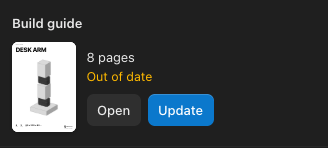
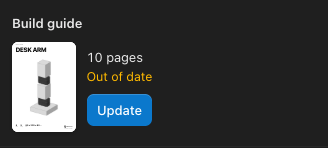
Refine: Leave one control for each job in the image viewer and the Build guide card (#787)
* Leave one control for each job in the image viewer and the Build guide card

The image viewer's zoom readout already zoomed to fit, so the Fit button
beside it did the same thing. It's gone, and the readout now has the
Zoom to fit tooltip with its 0 shortcut. On the Build tab, the guide's
cover already opened the guide, so the Open button beside it is gone too.
The card keeps Update for an out-of-date guide, and the toast and Open
Build Guide in Command-K still open it. The Build and Design system
guides, the Make a build guide article and the Build guide troubleshooting
article follow, with both card screenshots recaptured.

* Show Open Build Guide on the guide card's cover

The Build guide card dropped its Open button, so the cover is now the only control on the card that opens the guide. Give it a tooltip with the label its aria-label already carried, through one constant, and turn the tooltip off while a run is going and the cover can't open the guide. The image viewer's zoom readout got the same treatment for Zoom to fit.

Changed region(s): [[0.2439, 0.6216, 0.6707, 0.8649], [0.2439, 0.3514, 0.4573, 0.4324]]

diff --git a/src/components/build/GuideSection.tsx b/src/components/build/GuideSection.tsx
@@ -1,5 +1,14 @@
 import React from 'react';
-import { Button, FolderOpenIcon, IconButton, ProgressBar, Section, settleTilt, tiltToward } from '../../design-system';
+import {
+  Button,
+  FolderOpenIcon,
+  IconButton,
+  ProgressBar,
+  Section,
+  settleTilt,
+  tiltToward,
+  Tooltip,
+} from '../../design-system';
 import type { GuidePages } from '../../guide/viewer/guidePages';
 import type { BuildGuideRecord } from '../../types/robotics';
 import { platformBridge } from '../../utils/platformBridge';
@@ -26,6 +35,7 @@ function timeLeft(seconds: number | undefined): string {
 }
 
 const THUMB_W_PX = 64;
+const OPEN_GUIDE = 'Open Build Guide';
 
 interface CoverThumbProps {
   cover?: string;
@@ -35,11 +45,12 @@ interface CoverThumbProps {
 }
 
 const CoverThumb: React.FC<CoverThumbProps> = ({ cover, page, sceneName, onOpen }) => (
+  <Tooltip label={OPEN_GUIDE} disabled={!onOpen} className="shrink-0">
   <button
     type="button"
     onClick={onOpen}
     disabled={!onOpen}
-    aria-label="Open Build Guide"
+    aria-label={OPEN_GUIDE}
     data-guide-cover
     onPointerMove={tiltToward}
     onPointerLeave={(e) => settleTilt(e.currentTarget)}
@@ -59,6 +70,7 @@ const CoverThumb: React.FC<CoverThumbProps> = ({ cover, page, sceneName, onOpen 
     )}
     {page && <GuideCoverPage guide={page} widthPx={THUMB_W_PX} heroSrc={cover} />}
   </button>
+  </Tooltip>
 );
 
 const Progress: React.FC<{ progress: GuideRunProgress; onStop: () => void }> = ({ progress, onStop }) => (
@@ -85,16 +97,13 @@ const Made: React.FC<{ guide: BuildGuide; record: BuildGuideRecord }> = ({ guide
       <div className={`text-[12.5px] mt-0.5 ${guide.stale ? 'text-amber-400' : 'text-white/50'}`}>
         {guide.stale ? 'Out of date' : `Made ${agoPhrase(record.generatedAt)}`}
       </div>
-      <div className="flex gap-2 mt-2.5">
-        <Button size="sm" variant={guide.stale ? 'secondary' : 'primary'} onClick={() => void guide.open()}>
-          Open
-        </Button>
-        {guide.stale && (
+      {guide.stale && (
+        <div className="flex gap-2 mt-2.5">
           <Button size="sm" variant="primary" onClick={() => void guide.generate()}>
             Update
           </Button>
-        )}
-      </div>
+        </div>
+      )}
     </>
   );
 };

diff --git a/src/design-system/ImageViewerZoomBar.tsx b/src/design-system/ImageViewerZoomBar.tsx
@@ -1,7 +1,8 @@
 import React from 'react';
-import { CloseIcon, FitIcon, MinusIcon, PlusIcon } from './glyphs';
+import { CloseIcon, MinusIcon, PlusIcon } from './glyphs';
 import { IconButton } from './IconButton';
 import { IslandDivider } from './FloatingIsland';
+import { Tooltip } from './Tooltip';
 
 interface ImageViewerZoomBarProps {
   zoom: string;
@@ -28,14 +29,16 @@ export const ImageViewerZoomBar: React.FC<ImageViewerZoomBarProps> = ({
         tooltipSide="bottom"
         onClick={onZoomOut}
       />
-      <button
-        type="button"
-        onClick={onFit}
-        className="h-[32px] min-w-14 px-1.5 rounded-lg text-[13px] text-white/90 tabular hover:bg-white/[0.07] cursor-default"
-        aria-label="Zoom to fit"
-      >
-        {zoom}
-      </button>
+      <Tooltip label="Zoom to fit" shortcut="0" side="bottom">
+        <button
+          type="button"
+          onClick={onFit}
+          className="h-[32px] min-w-14 px-1.5 rounded-lg text-[13px] text-white/90 tabular hover:bg-white/[0.07] cursor-default"
+          aria-label="Zoom to fit"
+        >
+          {zoom}
+        </button>
+      </Tooltip>
       <IconButton
         icon={<PlusIcon className="w-4 h-4" />}
         title="Zoom in"
@@ -43,14 +46,6 @@ export const ImageViewerZoomBar: React.FC<ImageViewerZoomBarProps> = ({
         size="sm"
         tooltipSide="bottom"
         onClick={onZoomIn}
-      />
-      <IconButton
-        icon={<FitIcon className="w-4 h-4" />}
-        title="Zoom to fit"
-        shortcut="0"
-        size="sm"
-        tooltipSide="bottom"
-        onClick={onFit}
       />
       <IslandDivider />
       <IconButton

diff --git a/docs/guide/build.md b/docs/guide/build.md
@@ -75,8 +75,8 @@ The Build tab (right panel) and the agent's build tools turn a model into someth
     - **Supplies you add** (`project.extras`; there's no separate Supplies section): + in the header (`AddSupplyMenu`: Power, Wiring, Electronics, Tools) adds one, or one more of a supply already added, and opens its group. Filament isn't offered: it comes from the printed parts, in grams. Every line's quantity is a button (`QtyEditor`) that opens On hand, the count the person owns (saved app-wide, with a toast and Undo); on a line you added it opens Quantity, On hand and Delete (which asks first), and filament lines added by older scenes get On hand and Delete. The agent's note on an extra shows beside the spec.
     - The header's spreadsheet menu shows only when there are lines: CSV Spreadsheet, Markdown, then Buy All and the other stores' links.
     - **Buy All** (`cart.ts`, `bomCart`) fills one Amazon cart from the list: `/gp/aws/cart/add.html` with numbered `ASIN.n` / `Quantity.n` pairs, in line order, for every line with units left to buy and an ASIN (a checked listing's, else a catalog or sourced product link on amazon.com). Quantity is packs of the units left to buy, rounded up: the checked listing's pack size, else one piece (a 1,000 g spool for filament), so 6 servos sold in pairs are 3 and 13 screws sold by the hundred are 1. A line with no ASIN goes to its store instead: a checked or sourced listing elsewhere, else the list price's store page, grouped under the store's host name below Buy All, one item per line, since stores take no shared cart link. Only https links count, an ASIN must pass `parseAsin`, and the cart is always built on amazon.com, so a forged ASIN or a lookalike host never reaches it (§0h). Lines left with no link keep their row link (an Amazon search). Supplies join the cart only when they have a product link (the ones the agent sources); a catalog supply's search stays a search. Buy All is in ⌘K too (listed while the cart has an ASIN). It opens through `openLink` (`utils/openLink.ts`), the app's one external-link path: the system browser on desktop, a new tab in the web demo. No account and no affiliate tag.
-  - **Build guide** (`GuideSection`, `src/guide/`), after the bill of materials: a step-by-step assembly PDF, made with Make Guide (off until the scene has built parts). Making one runs in a worker (`guide.worker.ts`; `generateGuide` packs the parts, the worker measures contacts, plans, draws and writes the HTML, the main thread saves the PDF), so the app stays responsive and you can keep working; a toast with Open says when it's done. While it runs, the card keeps its cover (the new cover replaces it as soon as it's drawn), shows the step being drawn, the time left once it can be estimated, and Stop. A made guide offers Open; an out-of-date one says so in amber and adds Update. ⌘K has the same three as Make Build Guide, Open Build Guide and Update Build Guide (§11). There's no Regenerate: a guide reads Out of date whenever a redraw could come back different. That's when its fingerprint changes (`guideFingerprint`: the title, material, infill as printed on the front pages, built parts, joints and `GUIDE_VERSION`), or when its order search stopped at the 20 s limit (`orderTimedOut` on the record), so a later run may check the steps that say “Order not checked”. Bump `GUIDE_VERSION` in any change to the planner, the drawings or item names that changes what a made guide shows, so every guide redraws. Every scene with built parts keeps a current guide (`useGuideAutoUpdate`, Settings ▸ Build ▸ Build guide ▸ Update automatically, on by default): 15 s after the guide goes out of date, while no agent in the scene is working, it makes or updates the guide quietly, with no toast on success or failure. Background runs go one at a time across tabs. Stop, a failed run or another timed-out order search leaves that version alone until the scene changes again; opening another scene in the tab cancels a run. Steps follow the order `check_assembly` proves (`provenOrder.ts`); parts the planner couldn't place come first by the heuristic, and their steps say “Order not checked”.
-    - **Open** (the cover, the Open button, the toast, the agent's guide link) shows the guide in the app (`GuideViewer`), not the system PDF viewer. The HTML the PDF is printed from is kept beside it (`library/guides/<id>.html`, read with `guide:html`), parsed into pages, each in its own shadow root with one shared stylesheet (`guide/viewer/`), and prefetched at idle. A guide with no saved HTML is regenerated, then opened; Open PDF and Show in Finder regenerate a PDF that was moved or deleted the same way (`withPdf`, which checks `guide:exists` first), so no error sends anyone to a button; if the system still can't open or show the PDF, a toast says so. The cover thumbnail flies into the first page on a spring (`springEasing.ts` turns a spring into a CSS `linear()` easing), keeping the thumbnail's tilt, while the next pages rise in behind it; closing flies the page nearest the centre back into the thumbnail. Pages fit the window height; pinch, ⌘-scroll or − / + / 0 zoom about the pointer, ← / → and the toolbar's arrows turn pages, Esc or the × at the top right closes. The toolbar floats at the bottom: Previous page, “3 of 60”, Next page, Zoom out, Zoom in, Build Along, Show in Finder, Open PDF.
+  - **Build guide** (`GuideSection`, `src/guide/`), after the bill of materials: a step-by-step assembly PDF, made with Make Guide (off until the scene has built parts). Making one runs in a worker (`guide.worker.ts`; `generateGuide` packs the parts, the worker measures contacts, plans, draws and writes the HTML, the main thread saves the PDF), so the app stays responsive and you can keep working; a toast with Open says when it's done. While it runs, the card keeps its cover (the new cover replaces it as soon as it's drawn), shows the step being drawn, the time left once it can be estimated, and Stop. A made guide opens from its cover, with no Open button beside it; an out-of-date one says so in amber and adds Update. ⌘K has Make Build Guide, Open Build Guide and Update Build Guide (§11). There's no Regenerate: a guide reads Out of date whenever a redraw could come back different. That's when its fingerprint changes (`guideFingerprint`: the title, material, infill as printed on the front pages, built parts, joints and `GUIDE_VERSION`), or when its order search stopped at the 20 s limit (`orderTimedOut` on the record), so a later run may check the steps that say “Order not checked”. Bump `GUIDE_VERSION` in any change to the planner, the drawings or item names that changes what a made guide shows, so every guide redraws. Every scene with built parts keeps a current guide (`useGuideAutoUpdate`, Settings ▸ Build ▸ Build guide ▸ Update automatically, on by default): 15 s after the guide goes out of date, while no agent in the scene is working, it makes or updates the guide quietly, with no toast on success or failure. Background runs go one at a time across tabs. Stop, a failed run or another timed-out order search leaves that version alone until the scene changes again; opening another scene in the tab cancels a run. Steps follow the order `check_assembly` proves (`provenOrder.ts`); parts the planner couldn't place come first by the heuristic, and their steps say “Order not checked”.
+    - **Open** (the cover, the toast, the agent's guide link) shows the guide in the app (`GuideViewer`), not the system PDF viewer. The HTML the PDF is printed from is kept beside it (`library/guides/<id>.html`, read with `guide:html`), parsed into pages, each in its own shadow root with one shared stylesheet (`guide/viewer/`), and prefetched at idle. A guide with no saved HTML is regenerated, then opened; Open PDF and Show in Finder regenerate a PDF that was moved or deleted the same way (`withPdf`, which checks `guide:exists` first), so no error sends anyone to a button; if the system still can't open or show the PDF, a toast says so. The cover thumbnail flies into the first page on a spring (`springEasing.ts` turns a spring into a CSS `linear()` easing), keeping the thumbnail's tilt, while the next pages rise in behind it; closing flies the page nearest the centre back into the thumbnail. Pages fit the window height; pinch, ⌘-scroll or − / + / 0 zoom about the pointer, ← / → and the toolbar's arrows turn pages, Esc or the × at the top right closes. The toolbar floats at the bottom: Previous page, “3 of 60”, Next page, Zoom out, Zoom in, Build Along, Show in Finder, Open PDF.
     - **Build Along** (`useBuildAlong`, `guide/buildAlong.ts`, `build/BuildAlongBar.tsx`) plays the guide on the canvas one step at a time. It opens from the viewer's toolbar and ⌘K (listed while the scene has built parts). It reads the plan the PDF was drawn from: `useBuildGuide` keeps the last generated `GuidePlan` with its `guideFingerprint`, and `currentPlan` regenerates first when the scene has changed since (the bar shows the run's progress meanwhile). There is no second planner. `buildAlongSteps` turns each step into what the canvas shows: every part placed so far plus the step's context (so the shown set only grows and ends at every built part), the step's moves and arrows, its callout counts with the PDF's item names (“4 × M3 × 6 Socket Head Screw”), and a label on each servo the step adds, with its joint's name and bus ID from `servoLayout` (“Shoulder lift, ID 2”), the numbering the joint map and Operate's Connect use. ← / → step, orbit stays free, and Done at the bar's end (a ghost button, as in Measure's and Annotate's bars) or Esc closes and puts the camera back where it was; parts, visibility and selection are never edited. While it's open the workspace's other keys are off.
     - **Letters on parts**: with Label parts on (§8f), each printed part comes off the printer with its guide letter debossed on a hidden face. `partLetters` reads the same `GuidePlan` as Build Along, through `currentPlan`, so a letter on a part is always the one the PDF and Build Along call it.
     - **Parts ready** (`readySteps` in `print/tracker.ts`): a step whose printed parts (not set to Don't print) all count as printed in the Prints tracker (§8f) shows a done mark: the green circle check beside “3 of 12” in Build Along (the toolbar's `data-ready`), and the PDF's own check mark (`checkMark`, the done page's mark) beside the step number in the viewer. Steps with no printed part never show it. The viewer reads the step parts the record saved (`BuildGuideRecord.stepParts`, from the plan the pages were drawn from) and finds each step by the `data-step` index on its number; guides made before it have no marks. The marks follow the tracker live and are never printed in the PDF.

diff --git a/docs/guide/design-system.md b/docs/guide/design-system.md
@@ -7,7 +7,7 @@ Part of the Basecase guide. [AGENTS.md](../../AGENTS.md) holds the rules every c
 Use these primitives. Never hand-roll a styled `<button>` or input when one fits.
 
 - `Button` (primary, secondary, ghost, danger, contrast; xs/sm/md; optional `title` + `shortcut` tooltip)
-- `MenuItem` (shared by `PopoverMenu` and `ContextMenu`): `tone: 'danger'` paints the label and its icon red. Every menu draws its icons at one size: `MenuIconSlot` (`menuGutter.tsx`) sets a 14px icon in the 16px column, for a submenu's row too, and ⌘K sets its own at 16px. Pass a menu entry's or command's icon without a size (`<DeleteIcon />`), so one element serves an action's right-click entry and its ⌘K command. Labels in one menu line up: when any item leads with an icon or a tick column (`checked`, even `false`), an item with neither keeps an empty 16px column in their place (`menuGutter.tsx`). Each menu surface is its own scope: a `ContextMenu` decides from its entries, while a `PopoverMenu` or a submenu counts the items rendered in it, so a submenu never shifts the menu that opened it. Never pass `checked={false}` or an empty span to fake the column. A menu's Rename, Duplicate and Delete come from `renameEntry`, `duplicateEntry` and `deleteEntry` (`menuEntries.tsx`), so each has one label and icon in every menu (Delete red, with an optional shortcut). Delete, and any other red entry such as the canvas's Delete Marks, comes last, below its own divider: `ContextMenu` moves its red entries to the end behind one divider and drops doubled dividers and ones at either end (`arrangeMenu` in `menuOrder.ts`), so a caller lists its entries in any order and never adds that divider itself. A `PopoverMenu` lays out its children as given, so it puts a `MenuDivider` before its `deleteEntry` by hand (the Routine menu, a supply's quantity menu). Duplicate wears `DuplicateIcon` wherever it appears, Inspector buttons and the part commands included; `CopyIcon` is Copy's alone. The same holds for every action in buttons, menus and ⌘K: Stop wears `StopIcon` (`CloseIcon` is for Close, Cancel, Remove and clearing a field), New Scene `PlusIcon` like New Case and New Routine (`ComposeIcon` is the agent's new chat), Save to Library `BookmarkAddIcon`, Run Checks `CheckIcon`, Compare `CompareIcon`, Coach `CoachIcon`, and Recheck `RefreshIcon`, which also marks Retry and Update from Onshape. `CrosshairIcon` is Center on Origin's alone: Zoom to Selection wears `FitIcon`, like the image viewer's Zoom to fit, and Reset View wears `RotateLeftIcon`, like Reset Rotation.
+- `MenuItem` (shared by `PopoverMenu` and `ContextMenu`): `tone: 'danger'` paints the label and its icon red. Every menu draws its icons at one size: `MenuIconSlot` (`menuGutter.tsx`) sets a 14px icon in the 16px column, for a submenu's row too, and ⌘K sets its own at 16px. Pass a menu entry's or command's icon without a size (`<DeleteIcon />`), so one element serves an action's right-click entry and its ⌘K command. Labels in one menu line up: when any item leads with an icon or a tick column (`checked`, even `false`), an item with neither keeps an empty 16px column in their place (`menuGutter.tsx`). Each menu surface is its own scope: a `ContextMenu` decides from its entries, while a `PopoverMenu` or a submenu counts the items rendered in it, so a submenu never shifts the menu that opened it. Never pass `checked={false}` or an empty span to fake the column. A menu's Rename, Duplicate and Delete come from `renameEntry`, `duplicateEntry` and `deleteEntry` (`menuEntries.tsx`), so each has one label and icon in every menu (Delete red, with an optional shortcut). Delete, and any other red entry such as the canvas's Delete Marks, comes last, below its own divider: `ContextMenu` moves its red entries to the end behind one divider and drops doubled dividers and ones at either end (`arrangeMenu` in `menuOrder.ts`), so a caller lists its entries in any order and never adds that divider itself. A `PopoverMenu` lays out its children as given, so it puts a `MenuDivider` before its `deleteEntry` by hand (the Routine menu, a supply's quantity menu). Duplicate wears `DuplicateIcon` wherever it appears, Inspector buttons and the part commands included; `CopyIcon` is Copy's alone. The same holds for every action in buttons, menus and ⌘K: Stop wears `StopIcon` (`CloseIcon` is for Close, Cancel, Remove and clearing a field), New Scene `PlusIcon` like New Case and New Routine (`ComposeIcon` is the agent's new chat), Save to Library `BookmarkAddIcon`, Run Checks `CheckIcon`, Compare `CompareIcon`, Coach `CoachIcon`, and Recheck `RefreshIcon`, which also marks Retry and Update from Onshape. `CrosshairIcon` is Center on Origin's alone: Zoom to Selection wears `FitIcon`, and Reset View wears `RotateLeftIcon`, like Reset Rotation.
 - `IconButton` (required `title`, `shortcut`, `isActive` solid accent, `isToggled` soft fill; xs/sm/md/lg). `variant="send"` with `className="rounded-full"` is the round white button that sends what's typed: the agent composer's Send, Update and Stop, and a comment's Post.
 - Every button and menu item that deletes is drawn in the danger tone: an `IconButton` with `DeleteIcon` or a “Delete …” title takes `variant="danger"` (grey until hover, then red), a `Button` labeled Delete takes `variant="danger"` (Delete Price), and a menu entry labeled Delete takes `tone: 'danger'` (`deleteEntry` sets it, Delete Marks included). That holds for marks, printers, queued messages, chats, comments, Routine steps, parts and prices. ⌘K's commands have no tone, Delete among them. `deleteTone.test.ts` fails a grey one in a `.tsx` file.
 - Both take `className="rounded-full"` for a fully round button: `sizeRadius` drops the size's own radius, because Tailwind's stylesheet order, not class order, decides which radius wins and `rounded-lg` beats `rounded-full`. Any other whole-button radius passed through `className` needs `!`.
@@ -44,5 +44,5 @@ Use these primitives. Never hand-roll a styled `<button>` or input when one fits
   - The Parts card (`CatalogDetails`, components only: hardware opens its page and has no tiles) previews the part page in its words: the hero (no badge), the name, the maker line (`makerSubtitle`) and the description, then the page's Key specs (`keySpecs`: Size across the card, the rest below), then a footer with Buy on Amazon and icon links, shown only when the part has links. Mounting stays on the part page; see [Layout](layout.md) §5.
 - `useScrollFade(px?, axis?)`: returns `{ ref, style }` for a scroll container; fades top and bottom (left and right with `axis: 'x'`) only while content is hidden past them.
 - Thumbnails (`three/partThumbnails.ts`) render at 480 × 360 with a studio environment map, so metals read on dark tiles; dark parts get more exposure.
-- `ImageViewer`: full-window image viewer. Pinch or ⌘-scroll zooms at the pointer, two-finger scroll and drag pan, double-click toggles fit / 100%+, − + 0 keys, ← → and a filmstrip for several images, Esc or a backdrop click closes. Controls float in glass islands.
+- `ImageViewer`: full-window image viewer. Pinch or ⌘-scroll zooms at the pointer, two-finger scroll and drag pan, double-click toggles fit / 100%+, − + 0 keys, ← → and a filmstrip for several images, Esc or a backdrop click closes. Controls float in glass islands: Zoom out, the zoom readout, which zooms to fit (0), Zoom in and Close. A control never sits beside another that does its job, so there's no separate fit button.
 - Tokens in `theme.ts` (`THEME_COLORS`, `LAYOUT`, `DRAG_REGION`, `NO_DRAG_REGION`) mirror the `@theme` block in `index.css`.

diff --git a/site/content/help/make-a-build-guide.md b/site/content/help/make-a-build-guide.md
@@ -1,7 +1,7 @@
 ---
 title: Make a build guide
 date: 2026-11-13
-updated: 2026-11-13
+updated: 2026-11-14
 collection: build-and-print
 type: task
 order: 7
@@ -29,9 +29,9 @@ Basecase turns your design into a step-by-step assembly guide and saves it as a 
 
 1. In the **Build** tab, find **Build guide**.
 2. Click **Make Guide**. The card shows which step it's drawing and how much time is left. You can keep working while it runs.
-3. Once a toast says the guide is made, click **Open**.
+3. Once a toast says the guide is made, click **Open** in the toast, or click the guide's cover on the card.
 
-   ![The Build guide card with an 8-page guide made just now and an Open button](/help/make-a-build-guide/current.png)
+   ![The Build guide card with the cover of a 10-page guide made just now](/help/make-a-build-guide/current.png)
 
 4. To turn the pages, press [[→]] or [[←]].
 5. To close the guide, press [[Esc]].
@@ -44,9 +44,9 @@ To zoom, pinch or press + and −. In the desktop app, **Open PDF** opens the fi
 
 ## Keep it current
 
-If you change the design, or the infill in Print mode, the card reads **Out of date** in amber, with **Update** beside **Open**. **Update Build Guide** in [[⌘K]] does the same.
+If you change the design, or the infill in Print mode, the card reads **Out of date** in amber, with an **Update** button. **Update Build Guide** in [[⌘K]] does the same.
 
-![The Build guide card reading Out of date, with Open and Update buttons](/help/make-a-build-guide/out-of-date.png)
+![The Build guide card reading Out of date, with an Update button](/help/make-a-build-guide/out-of-date.png)
 
 Basecase updates the guide on its own 15 seconds after your last change, once the agent finishes. Each update redraws only the steps that show the parts you changed.
 

diff --git a/site/content/help/troubleshoot-build-guide-wont-make.md b/site/content/help/troubleshoot-build-guide-wont-make.md
@@ -1,7 +1,7 @@
 ---
 title: Build guide won't make or open
 date: 2026-11-13
-updated: 2026-11-13
+updated: 2026-11-14
 collection: troubleshooting
 type: troubleshooting
 order: 6
@@ -46,6 +46,10 @@ A guide also shows Out of date if its order check hit the 20-second limit. The n
 
 1. Click **Update** in **Build guide**.
 2. To have Basecase update the guide for you, press [[⌘,]], choose **Build**, then turn on **Update automatically**.
+
+## The cover won't open the guide
+
+The guide opens from its cover once a run ends. While Basecase makes or updates the guide, the cover doesn't open it. To open the guide you had before, click **Stop**.
 
 ## Show in Finder and Open PDF are missing
 
